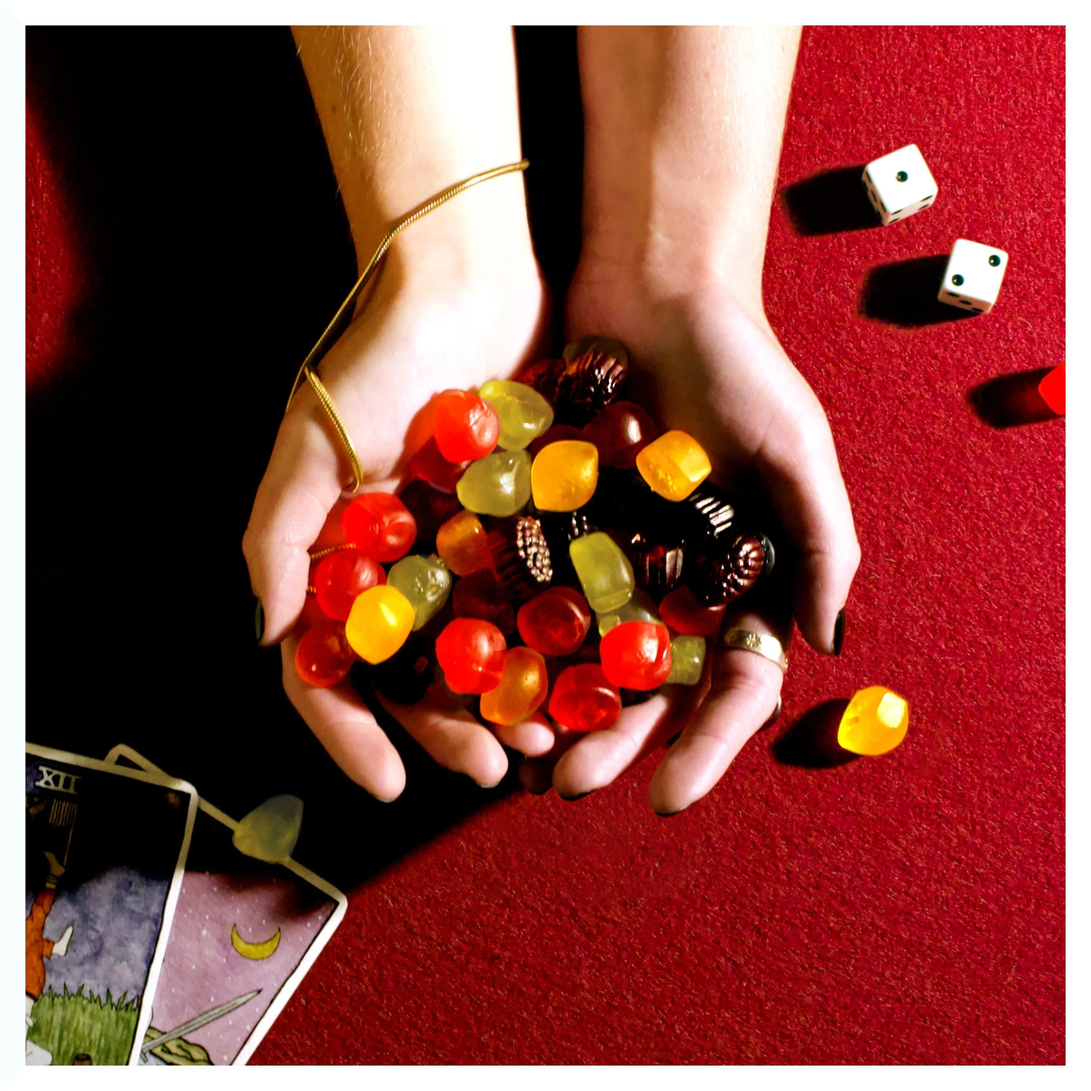
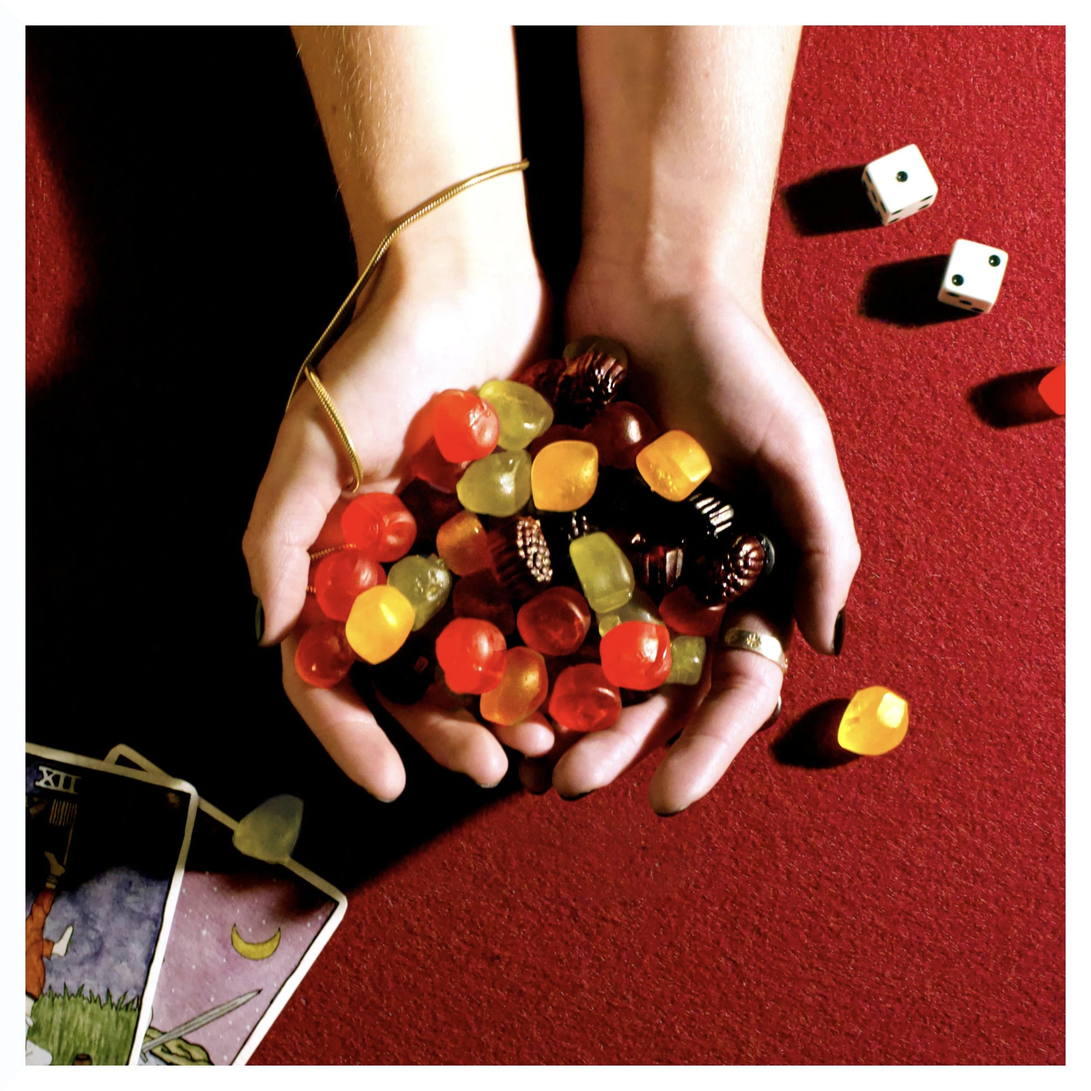
trying webp images again

diff --git a/src/pages/epk.tsx b/src/pages/epk.tsx
@@ -3,26 +3,26 @@ import Head from "next/head";
 import Image from "next/image";
 import Link from "next/link";
 
-import fruitSnacks from "../../public/fruitSnacks.jpeg";
-import airbag from "../../public/airbag.jpeg";
-import transferred from "../../public/transferred.png";
+import fruitSnacks from "../../public/fruitSnacks.webp";
+import airbag from "../../public/airbag.webp";
+import transferred from "../../public/transferred.webp";
 
-import banner from "../../public/tunnelEPKPhoto.png";
+import banner from "../../public/tunnelEPKPhoto.webp";
 
-import image1 from "../../public/bandPhoto3.jpg";
-import image2 from "../../public/porchPhoto.jpg";
-import image3 from "../../public/tunnelWalking.jpg";
-import image4 from "../../public/astroLogoTransparent.png";
-import image5 from "../../public/bandPhoto2.jpg";
-import image6 from "../../public/tunnelPhoto2.jpg";
-import image7 from "../../public/barnPhoto.jpg";
-import image8 from "../../public/7th-st-live13.jpg";
-import image9 from "../../public/tunnelEPKPhoto.png";
-import image10 from "../../public/couchPhoto.jpg";
-import image11 from "../../public/bandPhoto4.jpg";
-import image12 from "../../public/bandPhoto1.jpg";
+import image1 from "../../public/bandPhoto3.webp";
+import image2 from "../../public/porchPhoto.webp";
+import image3 from "../../public/tunnelWalking.webp";
+import image4 from "../../public/astroLogoTransparent.webp";
+import image5 from "../../public/bandPhoto2.webp";
+import image6 from "../../public/tunnelPhoto2.webp";
+import image7 from "../../public/barnPhoto.webp";
+import image8 from "../../public/7th-st-live13.webp";
+import image9 from "../../public/tunnelEPKPhoto.webp";
+import image10 from "../../public/couchPhoto.webp";
+import image11 from "../../public/bandPhoto4.webp";
+import image12 from "../../public/bandPhoto1.webp";
 
-import stagePlot from "../../public/stageplot.png";
+import stagePlot from "../../public/stageplot.webp";
 
 import { useForm } from "react-hook-form";
 import { api } from "~/utils/api";

diff --git a/src/pages/index.tsx b/src/pages/index.tsx
@@ -4,18 +4,18 @@ import Image from "next/image";
 import Link from "next/link";
 
 //importing images for static generation on build to speed up load times
-import background from "../../public/Red_Felt.png";
-import partyPoster from "../../public/releasePartyPoster.png";
-import transferred from "../../public/transferred.png";
-import restOfTheWeek from "../../public/restOfTheWeek.png";
-import fruitSnacks from "../../public/fruitSnacks.jpeg";
-import tmynmImage from "../../public/tellMeYouNeedMe.jpeg";
-import airbag from "../../public/airbag.jpeg";
+import background from "../../public/Red_Felt.webp";
+import partyPoster from "../../public/releasePartyPoster.webp";
+import transferred from "../../public/transferred.webp";
+import restOfTheWeek from "../../public/restOfTheWeek.webp";
+import fruitSnacks from "../../public/fruitSnacks.webp";
+import tmynmImage from "../../public/tellMeYouNeedMe.webp";
+import airbag from "../../public/airbag.webp";
 
-import hoodieFront from "../../public/HoodieFront.png";
-import hoodieBack from "../../public/HoodieBack.png";
-import crewFront from "../../public/CrewneckFront.png";
-import crewBack from "../../public/Crewneckback.png";
+import hoodieFront from "../../public/HoodieFront.webp";
+import hoodieBack from "../../public/HoodieBack.webp";
+import crewFront from "../../public/CrewneckFront.webp";
+import crewBack from "../../public/Crewneckback.webp";
 
 /* export const config = {
   runtime: "experimental-edge",

diff --git a/src/pages/Music.tsx b/src/pages/Music.tsx
@@ -3,11 +3,11 @@ import Head from "next/head";
 import Link from "next/link";
 import Image from "next/image";
 
-import banner from "../../public/tunnelPhoto.png";
-import transferred from "../../public/transferred.png";
-import fruitSnacks from "../../public/fruitSnacks.jpeg";
-import airbag from "../../public/airbag.jpeg";
-import album1 from "../../public/fromNothingToNothing.png";
+import banner from "../../public/tunnelPhoto.webp";
+import transferred from "../../public/transferred.webp";
+import fruitSnacks from "../../public/fruitSnacks.webp";
+import airbag from "../../public/airbag.webp";
+import album1 from "../../public/fromNothingToNothing.webp";
 
 /* export const config = {
   runtime: "experimental-edge",

diff --git a/src/pages/success/[session_id].tsx b/src/pages/success/[session_id].tsx
@@ -4,7 +4,7 @@ import Link from "next/link";
 import { useRouter } from "next/router";
 import { useEffect } from "react";
 import Image from "next/image";
-import excited from "../../../public/excited.png";
+import excited from "../../../public/excited.webp";
 
 import { getCookie } from "cookies-next";
 import { api } from "~/utils/api";

diff --git a/src/pages/Store.tsx b/src/pages/Store.tsx
@@ -9,7 +9,7 @@ type Product = InferModel<typeof product_details, "select">;
 
 import { motion, AnimatePresence } from "framer-motion";
 
-import banner from "../../public/porchPhoto.jpg";
+import banner from "../../public/porchPhoto.webp";
 
 /* export const config = {
   runtime: "experimental-edge",

diff --git a/src/pages/Shows.tsx b/src/pages/Shows.tsx
@@ -28,7 +28,7 @@ import {
 
 //import { api } from "~/utils/api";
 
-import banner from "../../public/greenRoomPhoto.png";
+import banner from "../../public/greenRoomPhoto.webp";
 
 import { db } from "~/db/db";
 //import type { InferGetServerSidePropsType, GetServerSideProps } from "next";

diff --git a/src/pages/Videos.tsx b/src/pages/Videos.tsx
@@ -2,7 +2,7 @@ import { type NextPage } from "next";
 import Head from "next/head";
 import Image from "next/image";
 
-import banner from "../../public/barnPhoto.jpg";
+import banner from "../../public/barnPhoto.webp";
 
 /* export const config = {
   runtime: "experimental-edge",

diff --git a/src/pages/Contact.tsx b/src/pages/Contact.tsx
@@ -21,7 +21,7 @@ import { useState } from "react";
   regions: ["cle1"],
 }; */
 
-import image from "../../public/contactPagePhoto.jpg";
+import image from "../../public/contactPagePhoto.webp";
 
 type FormData = {
   firstName: string;
